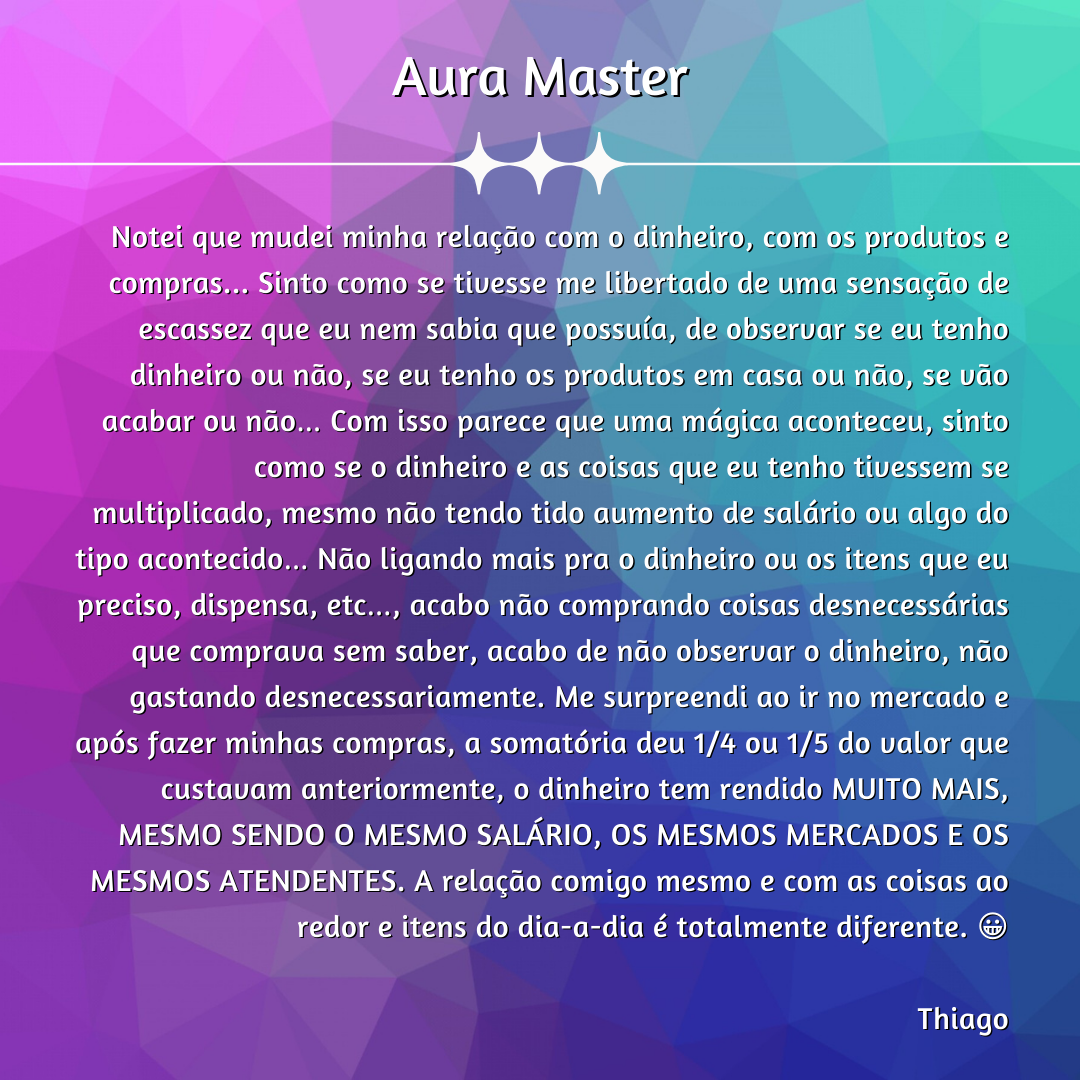
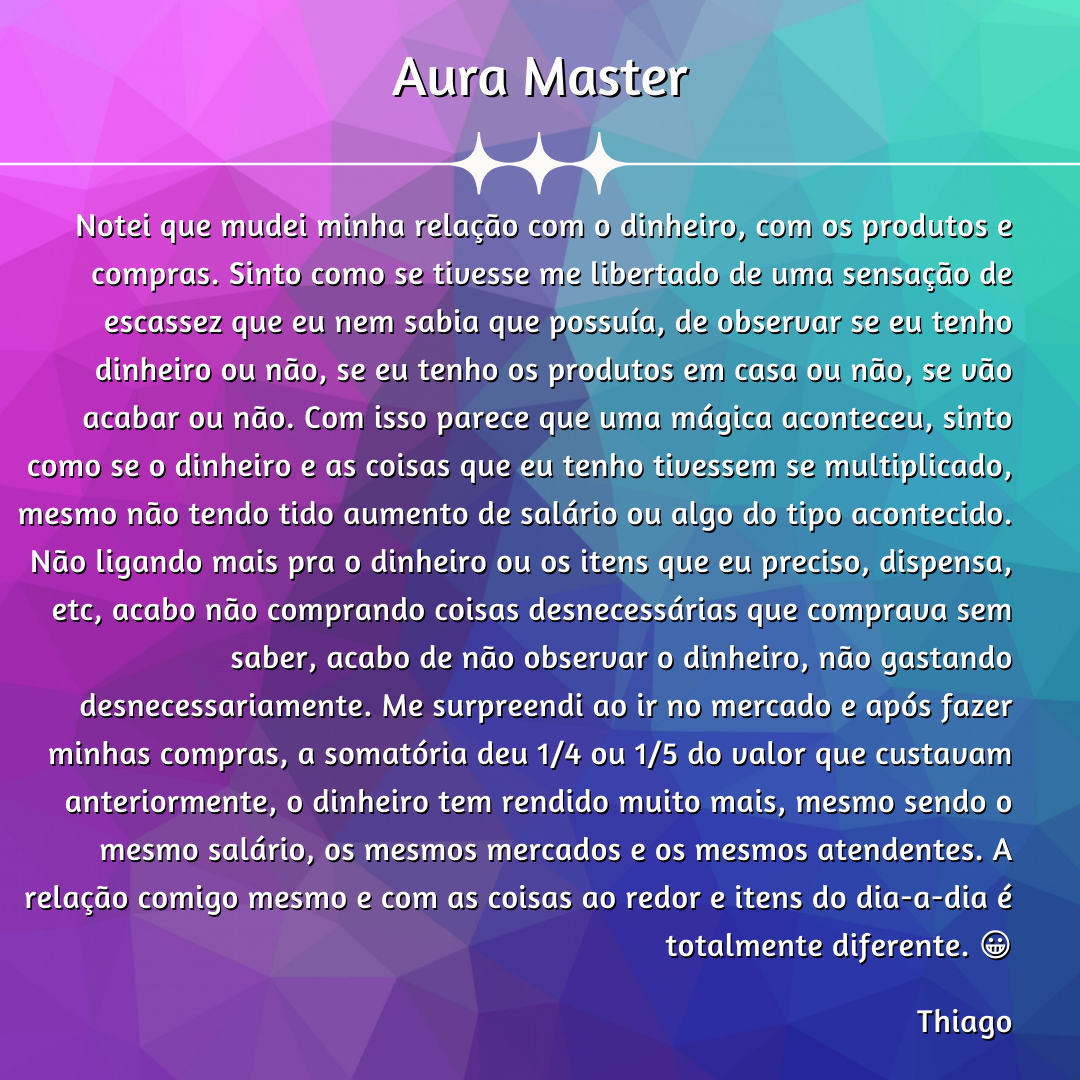
Add new testimony; delete old testimonies

Changed region(s): [[0.0, 0.1833, 0.9472, 0.8861], [0.8556, 0.9167, 0.9472, 0.9778]]

diff --git a/src/pages/aura-master/index.js b/src/pages/aura-master/index.js
@@ -6,6 +6,7 @@ import Depoimento02 from './depoimentos/Depoimento2.png';
 import Depoimento03 from './depoimentos/Depoimento3.png';
 import Depoimento04 from './depoimentos/Depoimento4.png';
 import Depoimento05 from './depoimentos/Depoimento5.png';
+import Depoimento from './depoimentos/Depoimento.png';
 
 const Header = styled.div`
     max-width: 1920px;
@@ -240,6 +241,10 @@ function AuraMaster () {
                 <Testimony>
                     <p>11 de Janeiro de 2023</p>
                     <img src={Depoimento01} alt="Depoimento" />
+                </Testimony>
+                <Testimony>
+                    <p>11 de Janeiro de 2023</p>
+                    <img src={Depoimento} alt="Depoimento" />
                 </Testimony>
             </Testimonies>
         </>
